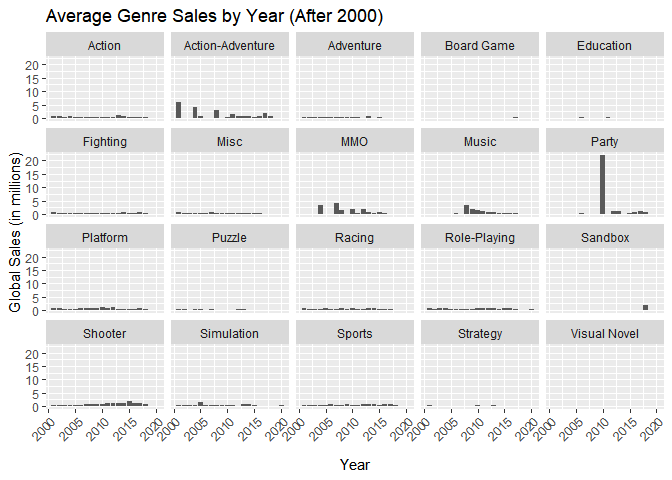
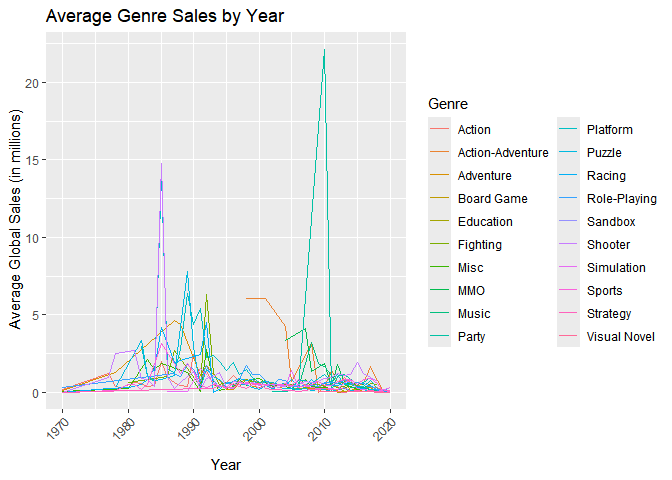
polish

diff --git a/README.md b/README.md
@@ -22,22 +22,23 @@ To guide our analysis, we focus on the following research questions:
 
 1.  Which genre has the best sales?
 
-2.  Is there a relationship between user rating and sales? What about
+2.  How does reigon affect the most popular genre? If there are
+    differences, why does that happen?
+
+3.  How do popular genres change over the years?
+
+4.  How do critic scores differ from user scores?
+
+5.  Is there a relationship between user rating and sales? What about
     critic rating in sales? Which one would be better marker for a
     bestseller?
 
-3.  Which platform had the most successful games?
+6.  Which platform’s games have the best rating?
 
-4.  Which platform’s games have the best rating? Does platform affect
-    the above questions?
+7.  Which platform performs the best in total sales? What does range of
+    sales look like per platform?
 
-5.  What is the most popular genre per platform?
-
-6.  What years were most successful for video games
-
-7.  During the best years, which genres were most popular?
-
-8.  What is the most popular genre by area?
+8.  How do platform sales vary by year?
 
 By answering these questions, we aim to identify key trends that
 influence the success of a video game. The insights gained from this
@@ -396,14 +397,13 @@ avg_sales_by_genre_by_year <- q1_data %>%
 
 
 avg_sales_by_genre_by_year %>%
-  filter(Year > 2000) %>%
-  ggplot(aes(x = Year, y = avg_sales)) +
-  geom_col() +
-  facet_wrap(~Genre) +
+  ggplot(aes(x = Year, y = avg_sales, group = Genre)) +
+  geom_line(aes(color = Genre)) +
+  guides(color = guide_legend(ncol = 2)) + 
   labs(
-    title = "Average Genre Sales by Year (After 2000)",
+    title = "Average Genre Sales by Year",
     x = "Year",
-    y = "Global Sales (in millions)"
+    y = " Average Global Sales (in millions)"
   ) +
   theme(
     axis.text.x = element_text(angle = 45, hjust = 1),
@@ -412,7 +412,14 @@ avg_sales_by_genre_by_year %>%
   scale_y_continuous(labels = scales::comma)
 ```
 
+    ## Warning: Removed 13 rows containing missing values or values outside the scale range
+    ## (`geom_line()`).
+
 ![](README_files/figure-gfm/unnamed-chunk-10-1.png)<!-- -->
+
+As we can see, there is a very high spike for both shooter and platform.
+This shows how they are the two very strong genres - one in average and
+one in total.
 
 ### Going into User and Critic Scores
 
@@ -806,14 +813,6 @@ As said by CNN, Tokyo was the front leader for gaming with SEGA and
 Nintendo originating there. This explains the platforming being higher.
 
 ``` r
-# Define brand colors
-company_colors <- c(
-  "Nintendo"  = "#F4A6A6",  # Pastel red
-  "Sony"      = "#A6B8E6",  # Pastel blue
-  "Microsoft" = "#A9D6A4",  # Pastel green
-  "PC"        = "#C0C0C0"   # Light gray
-)
-
 # Add Company info to platform summary
 q1_platform_avg_year <- q1_data %>%
   group_by(Platform, Year) %>%
@@ -836,14 +835,14 @@ q1_platform_avg_year <- q1_data %>%
 
 ``` r
 q1_platform_avg_year %>%
-  filter(Year > 2000) %>%
-  ggplot(aes(x = Year, y = avg_sales)) +
-  geom_col() +
-  facet_wrap(~Platform) +
+  ggplot(aes(x = Year, y = avg_sales, group = Platform, color = Platform)) +
+  scale_fill_manual(values = company_colors) +
+  guides(color = guide_legend(ncol = 2)) + 
+  geom_line() +
   labs(
-    title = "Average Genre Sales by Year (After 2000)",
+    title = "Average Platform Sales by Year",
     x = "Year",
-    y = "Global Sales (in millions)"
+    y = "Average Global Sales (in millions)"
   ) +
   theme(
     axis.text.x = element_text(angle = 45, hjust = 1),
@@ -852,46 +851,108 @@ q1_platform_avg_year %>%
   scale_y_continuous(labels = scales::comma)
 ```
 
-![](README_files/figure-gfm/unnamed-chunk-20-1.png)<!-- -->
+    ## Warning: No shared levels found between `names(values)` of the manual scale and the
+    ## data's fill values.
+
+    ## Warning: Removed 13 rows containing missing values or values outside the scale range
+    ## (`geom_line()`).
+
+![](README_files/figure-gfm/unnamed-chunk-20-1.png)<!-- --> THe
+platforms that seem to have incredible spikes are the NES, the PC, Wii,
+and PS4. This is contradictory to our Total Sales chart and it shows how
+while console like the NES have higher averages at times, other consoles
+have sold better when you total them up overall.
 
 ## Conclusion
 
-1.  The genre with the best sales is Sports, highlighting its popularity
-    among players worldwide.
+\##Conclusion Statistic
 
-2.  There is a positive but not particularly strong relationship between
-    both user and critic ratings and global sales. Higher scores
-    generally align with better sales, but other variables clearly play
-    a role. A moderate/strong relationship exists between critic ratings
-    and global sales, suggesting their importance as a marker for
-    potential bestsellers. This may indicate that critic ratings carry
-    more weight or visibility in influencing purchasing decisions.
+``` r
+q1_data %>% arrange(desc(Global_Sales)) %>% select(Name, Genre, Platform, JP_Sales, Global_Sales) %>% head(6)
+```
 
-3.  The most successful platform in terms of global sales is PS2.
+    ##                                 Name        Genre Platform JP_Sales
+    ## 1                         Wii Sports       Sports      Wii     3.77
+    ## 2                  Super Mario Bros.     Platform      NES     6.81
+    ## 3                     Mario Kart Wii       Racing      Wii     3.80
+    ## 4                  Wii Sports Resort       Sports      Wii     3.29
+    ## 5 Pokémon Red / Green / Blue Version Role-Playing       GB    10.22
+    ## 6                             Tetris       Puzzle       GB     4.22
+    ##   Global_Sales
+    ## 1        82.65
+    ## 2        40.24
+    ## 3        35.98
+    ## 4        32.90
+    ## 5        31.37
+    ## 6        30.26
 
-4.  X-Box is home to games with the best average ratings, solidifying
-    its reputation for quality.
+To conclude, these top 6 games showcase our results very clearly. The
+top 2 genres, one in Total and one in Average, are Sports and Platform.
+When you look at the platform you can clearly see Nintendo’s domination
+in the top performers of video game sales. Furthermore, you can see how
+the Role-Playing genre is more popular in Japan than any other genre.
 
-5.  While X-Box has the best average rating, Nintendo has the best sales
-    according to this data. The NES and Wii have the highest Q3 of
-    Global Sales, with Wii having the most successful game.
+To specify, here are the answers to the questions that we set out to
+answer:
 
-6.  We can see the rise of video games in the 2000’s with it peaking
-    around 2009. From there it gently declines with a sharp decrease
-    in 2020. Was this because of data collection and a bias within the
-    data, or for actual reasons? Perhaps the pandemic has caused a
-    decline in sales recently.
+1.  Which genre has the best sales?
 
-7.  This further shows the popularity of the sports genre, as it is the
-    genre with the highest number of sales in all of the genres. Close
-    behind, Shooter and Action are also very popular.
+The genre with the best sales is Sports, highlighting its popularity
+among players worldwide.
 
-8.  While most areas, such as North America, follow the same pattern
-    with Action, Shooter, and Sports being the top 3 games, JP follows a
-    different trend. JP stands for Japan. Japan’s top performing genres
-    are Platform, Role-Playing, and Sports. Role-Playing being the
-    significantly most popular game genre. This shows the cultural
-    difference between the Americas and Japan.
+2.  How does reigon affect the most popular genre? If there are
+    differences, why does that happen?
+
+While most areas, such as North America, follow the same pattern with
+Action, Shooter, and Sports being the top 3 games, JP follows a
+different trend. JP stands for Japan. Japan’s top performing genres are
+Platform, Role-Playing, and Sports. Role-Playing being the significantly
+most popular game genre. This shows the cultural difference between the
+Americas and Japan.
+
+3.  How do popular genres change over the years?
+
+At some times the most popular genre is Shooter and at other times it is
+Platform. This shows how the most popular genres by Total and by Average
+really do dominate across the years.
+
+4.  How do critic scores differ from user scores?
+
+Critic scores on average are lower than user scores. This implies that
+they are more likely to rate a game lower than users, which shows how
+they are similar to their name and are very critical.
+
+5.  Is there a relationship between user rating and sales? What about
+    critic rating in sales? Which one would be better marker for a
+    bestseller?
+
+There is a positive but not particularly strong relationship between
+both user and critic ratings and global sales. Higher scores generally
+align with better sales, but other variables clearly play a role. A
+moderate/strong relationship exists between critic ratings and global
+sales, suggesting their importance as a marker for potential
+bestsellers. This may indicate that critic ratings carry more weight or
+visibility in influencing purchasing decisions.
+
+6.  Which platform’s games have the best rating?
+
+X-Box is home to games with the best average ratings, solidifying its
+reputation for quality.
+
+7.  Which platform performs the best in total sales? What does range of
+    sales look like per platform?
+
+While X-Box has the best average rating, Nintendo has the best sales
+according to this data. The NES and Wii have the highest Q3 of Global
+Sales, with Wii having the most successful game.
+
+8.  How do platform sales vary by year?
+
+Platform popularity changes drastically by year, with some platforms
+like the NES and Wii dominating at certain times. Those platforms,
+however, do not align with the overall best performing total sales
+platforms. This showcases the difference betweem momentary greatness and
+steady performance.
 
 ### Further Questions
 
